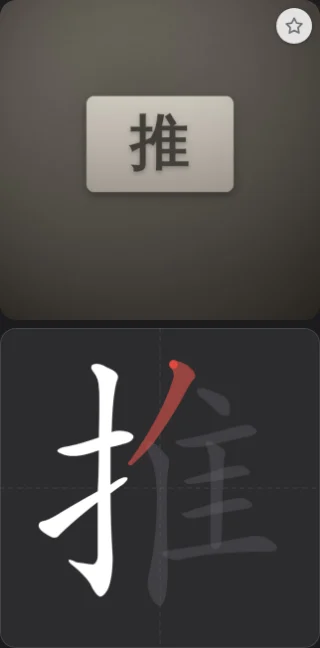
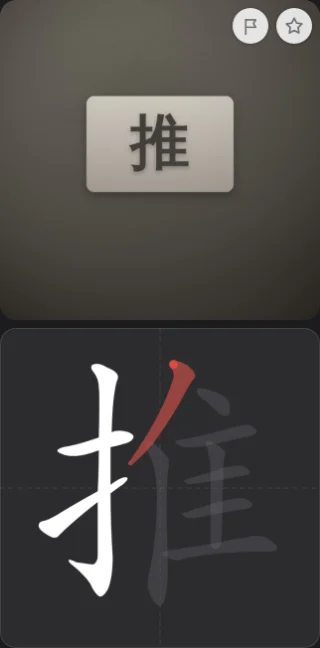
v659: the flag on the Learn photo stays after unflagging (#735)
* v659: the flag on the Learn photo stays after unflagging

Claude-Session: https://claude.ai/code/session_011ddJhScudZucfvFN8XF8dU

* docs: the zoom out at 车 is the level-3 rule (v617), recorded

Claude-Session: https://claude.ai/code/session_011ddJhScudZucfvFN8XF8dU

---------

Changed region(s): [[0.7188, 0.0, 0.8438, 0.0926]]

diff --git a/app.js b/app.js
@@ -8,7 +8,7 @@
 const NEW_PER_SESSION = 8;
 const CJK = /[\u4e00-\u9fff]/;
 const pySpaced=t=>{ const out=[]; for(const x of pinyinPro.pinyin(t,{type:"array",toneType:"symbol"})){ const prev=out[out.length-1]; if(prev!==undefined&&/^[\d.]+[a-zA-Z%]*$/.test(prev)&&/^[\da-zA-Z%.]$/.test(x)&&!(/[a-zA-Z%]$/.test(prev)&&/[\d.]/.test(x))) out[out.length-1]=prev+x; else out.push(x); } return out.join(" "); }; /* syllables with tone marks, space-separated; a number stays one token (30, not 3 0), with the unit letters the library hands out one by one (380ml, not 380 m l — v323) */
-const APP_V=658; /* must equal the PWA vN label in index.html — the boot check repairs a shell whose files are of different versions */
+const APP_V=659; /* must equal the PWA vN label in index.html — the boot check repairs a shell whose files are of different versions */
 let PICKING=0; const PICK_MAX=10*60000, picking=()=>PICKING>0&&Date.now()-PICKING<PICK_MAX; /* a photo is being taken or picked (v316): from the tap on Take photo or From album until the input's change or cancel, at most ten minutes — no update reload meanwhile, see reloadSoon */
 const glyphs = s => [...String(s)].filter(ch => CJK.test(ch)).length;
 const headFont = s => { const n = glyphs(s); return n<=1?150:n===2?104:n===3?74:n<=8?58:n<=12?44:34; };
@@ -3832,7 +3832,7 @@ function renderStudy(main){
      v584's DESC_ROW reserve go with it, and the pad has the 30 px back. */
   main.innerHTML=wxNoteHTML()+(S.single?`<div class="topline"><button class="del" id="back-cards">${t("← Cards")}</button><span class="badge">${t("Testing from the list")}</span></div>`:"")+`<div class="card study${rep?" rep":""}${cueBigCls()}">
     <div class="cue">
-    <div class="zone1 front${d.flag?" flagged":""}" id="reveal">${picHTML}${tradMark(d)}${inPage(d)?"":`<button class="picstar${d.star?" on":""}" id="picstar" aria-label="${esc(t("Star"))}" aria-pressed="${d.star?"true":"false"}">${starIcon}</button>`}${d.flag||d.unchecked?`<button class="picflag${d.flag?" on":" new"}" id="picflag" aria-label="${d.flag?t("⚑ Clear flag"):t("⚑ Flag for review")}" aria-pressed="${d.flag?"true":"false"}" title="${d.flag?"":esc(t("Not yet checked"))}">${flagIcon}</button>`:""}</div>
+    <div class="zone1 front${d.flag?" flagged":""}" id="reveal">${picHTML}${tradMark(d)}${inPage(d)?"":`<button class="picstar${d.star?" on":""}" id="picstar" aria-label="${esc(t("Star"))}" aria-pressed="${d.star?"true":"false"}">${starIcon}</button>`}${`<button class="picflag${d.flag?" on":d.unchecked?" new":""}" id="picflag" aria-label="${d.flag?t("⚑ Clear flag"):t("⚑ Flag for review")}" aria-pressed="${d.flag?"true":"false"}" title="${!d.flag&&d.unchecked?esc(t("Not yet checked")):""}">${flagIcon}</button>`}</div>
     <div class="txt" id="cuetxt">${tradMark(d)}${chrow}<div class="padline" id="padline"></div></div></div>
     <div class="padwrap"><canvas class="wpad" id="wpad" width="${DRAW_SIZE}" height="${DRAW_SIZE}"></canvas><div class="padacts" id="padacts"><button class="del" id="pad-undo" hidden>${t("pad:Undo")}</button><button class="del" id="pad-show" hidden>${t("Show me")}</button><button class="del" id="pad-skip" hidden>${t("Skip")}</button><button class="del" id="pad-done" hidden>${t("Done")}</button><button class="del" id="pad-clear" hidden>${t("Clear")}</button></div>${freePad?`<div class="hint" id="pad-note">${noTmpl?t("not in the stroke set — draw it and tap Done"):""}</div>`:""}</div>
     <div class="fold${ansOpen?" open":""}"><button class="foldbtn" id="fold" aria-expanded="${ansOpen?"true":"false"}"><span>${t("Whole card")}</span>${rep?`<span class="pill again">${t("Again")}</span>`:""}<span class="tail">${!rep&&list.length>1&&!S.single?/* v522: the count in the fold row; on a repeat pass the Again pill takes the slot */`<span class="pos">${esc(t("{0} of {1}",li+1,list.length))}</span>`:""}<i aria-hidden="true">⌄</i></span></button><div class="ans" id="ans"${ansOpen?"":" hidden"}>${back}</div></div>
@@ -3844,7 +3844,7 @@ function renderStudy(main){
   splitFit(card); /* v564/v580: the cue holds the picture or the whole text */
   /* the photo: a tap swaps the crop for the whole photo and back (v55); the flag in its corner is the review flag (§ 3.3) */
   const rv=$("#reveal"); if(rv) rv.onclick=e=>{ if(e.target.closest("#picflag,#picstar")) return; cueBig(card); }; /* v564: the tap swaps the two halves of the cue; the whole photo is the open card's (v55's swap is not on the study card any more). v580: the WHOLE upper zone takes it, not only a real picture — a card with no photo of its own draws its word there (v578) and must be able to swap back too */
-  { const pf=$("#picflag"); if(pf) pf.onclick=async e=>{ e.stopPropagation(); await setFlag(c,!d.flag); render(); }; } /* v515: hollow ⚐ = not yet checked, a tap flags it; tint ⚑ = flagged, a tap clears; nothing once checked and clean — such a card is flagged through Edit's checkbox (the block's Flag button went at v658) */
+  { const pf=$("#picflag"); if(pf) pf.onclick=async e=>{ e.stopPropagation(); await setFlag(c,!d.flag); render(); }; } /* v515: hollow ⚐ = not yet checked, a tap flags it; tint ⚑ = flagged, a tap clears; v658 (H: "Flag disappears after unflagging."): a checked, clean card shows it too, in the star's quiet grey, so it can be flagged again — it had been drawn only while flagged or unchecked */
   $("#fold").onclick=()=>{ S.ansOpen=!S.ansOpen; render(); if(S.ansOpen) revealBlock("#ans"); };
   { const ps=$("#picstar"); if(ps) ps.onclick=async e=>{ e.stopPropagation(); await setStar(c,!d.star); render(); }; } /* v658: the star on the photo, as on a Cards tile */
   const ed=$("#edit-card"); if(ed) ed.onclick=()=>{ S.editing=c; S.editFrom="study"; S.fullPic=false; render(); window.scrollTo({top:0}); }; /* v654: grades nothing; the pad keeps its strokes unless the text changes */

diff --git a/styles.css b/styles.css
@@ -737,7 +737,7 @@ body.noscroll{overflow:hidden}
 .picflag{display:grid;place-items:center} .picflag svg{width:21px;height:21px;fill:none;stroke:currentColor;stroke-width:1.8;stroke-linejoin:round;stroke-linecap:round} .picflag.on svg{fill:currentColor} .picflag.on{color:var(--tint)}
 .picstar{position:absolute;right:8px;top:8px;z-index:3;width:36px;height:36px;border:none;border-radius:999px;background:rgba(255,255,255,.85);color:var(--label3);padding:0;display:grid;place-items:center;cursor:pointer;box-shadow:0 1px 3px rgba(0,0,0,.25)} .picstar::before{content:"";position:absolute;inset:-4px} .picstar svg{width:22px;height:22px;fill:none;stroke:currentColor;stroke-width:1.8;stroke-linejoin:round} .picstar.on{color:var(--tint)} .picstar.on svg{fill:currentColor} /* v658: the star on the Learn photo, the flag's twin — marks on the picture, as on a Cards tile */
 .zone1 .picstar~.picflag{right:52px} /* v658: the flag beside the star, not under it */
-.picflag.new{color:var(--label2)} /* v515: hollow ⚐ — not yet checked; a tap flags it. Nothing is drawn once the card is checked and clean */
+.picflag.new{color:var(--label2)} /* v515: hollow — not yet checked, a shade darker; a tap flags it. v658: a checked, clean card shows the flag too, in --label3 like the star */
 /* THE CHARACTERS ARE ONE ROW (v517, H: "Die Felder für Bild und Zeichenfläche dürfen sich nicht in der Größe verändern.
    Das müssen Konstanten sein."). Until v516 there was one row per photo line, so a three-line sign gave three rows, 196 px
    against a one-line card's 60, and the pad paid the difference. The rows are laid side by side now with the photo's own

diff --git a/sw.js b/sw.js
@@ -1,4 +1,4 @@
-const CACHE = "zt-v658";
+const CACHE = "zt-v659";
 /* OCR assets (./vendor/, ~23 MB: the reader's eleven files at ~15 MB plus the 7.3 MB stroke outlines of v517, which are fetched through the same path but deliberately kept out of OCR_FILES) live in their own cache that survives shell
    updates — otherwise every cache version bump would re-download all of
    Tesseract. Only bump this when vendor files change. */

diff --git a/index.html b/index.html
@@ -20,7 +20,7 @@
 <body>
 <div id="app">
   <header id="hdr">
-    <div class="brand"><span class="logo">识字</span><span class="ver">PWA v658</span></div>
+    <div class="brand"><span class="logo">识字</span><span class="ver">PWA v659</span></div>
     <div class="stats">
       <div id="stat-filter"></div>
       <span id="stat-deck" style="display:none"><b>Deck</b><span class="v">0</span></span>

diff --git a/CLAUDE.md b/CLAUDE.md
@@ -59,7 +59,7 @@ UI language: English (ten languages shipped). Learning content: Chinese + pinyin
   sends `max-age=600`). Files no phone fetches — `CLAUDE.md`, `docs/`, `supabase/`, `tools/` —
   need **no** bump; bumping costs every phone a shell re-download for nothing.
 
-## Current state (PWA v658, 2026-09-26)
+## Current state (PWA v659, 2026-09-26)
 **The app is called 识字 Shízì** (v608, H: "Return the name to shizi", then "识字 Shízì" over the full v600 name; v601–v607
 it was 街字 Jiēzì, and Zeichentrainer stays dropped). The title, manifest `name`/`short_name` (识字 Shízì / 识字), header
 logo, About, share text, `privacy.html`, the owner's dumps and every shared file (`shizi-YYYY-MM-DD.json.txt`,
@@ -73,7 +73,7 @@ the manifest, which can take a day.
 - **v620–v636** — a **multicard's regions snap onto their texts** at display (`snapRegion`, memory only), never on a frame over half the photo or shared with another text (v628). Texts fall back to the whole picture because the model's label boxes are a drawing and the reader names only some labels; a measuring grid (v629–v630) and faster Qwen models (v631–v633, not on H's Token Plan) were tried and removed — see the archive. **Owner tools → Zoom check** (Run, Share, Data, Paddle) shares the newest 24 cards and 8 multicards as one PDF with the full photos, reading records and AI replies (v627). Multicards zoom like cards (v634) and take **Add a text** (v635).
 - **v637–v638** — **PaddleOCR on the phone** (`pdRead`, `vendor/paddle/`, ~30 MB loaded once on first use; since v642 in a worker of its own, `pdWorkerMain` — on the page it froze the first multicard swipe of a session for 633 ms): on H's phone 93 of 103 multicard texts named at 1.8 s a photo. Since v638 it **places a multicard's labels**: at the split (`pdMatch`, one to one, before the old label search, which only adds places; since v643/v644 a text left over may take two lines stacked or side by side, and one the reader cannot find takes the AI's box once `aiBoxCal` has checked the AI's boxes against the reader's on that photo — 227 of 227 texts on H's 24 multicard photos) and when an older multicard is shown (`refineShot`: a text with the whole picture or a shared frame takes its line). Owner tools → Zoom check → **Paddle** measures it. **Owner tools → Re-read all** (v645) runs every photo of the deck through today's real pipeline into a report (`shizi-reread.txt`) and changes no card (`RRPH` placeholders in memory; `finishPending`/`failPending` hand off to `rrFinish`). **Owner tools → Check texts** (v650) asks the picture model, one call per photo, which characters of each card's text are not on its photo and flags those cards "Not on the photo: …" (H's rule: no text that is not visible; pre-v611 cards invented 早 of 早日退休 and 盒马鲜生). **Owner tools → Rebuild all** (v651) replaces every photo's cards with what today's reading makes, through the camera's own save (`rbOne`); history, star and tags follow by text or one-to-one; the old cards sit in `rb:<shot>` settings rows for **Undo** and for `rbRecover` after a kill — the boot's orphan-progress sweep spares them. On a multicard photo only the multicard and its texts are replaced (v652; v651 dropped the photo's own flashcards, and `rbRepair` put them back once). Since **v639** it is also **one more pass of every reading** (whole straightened frame, started beside the quick look, exempt from `lineFit`/`sizeFitOf`): on H's 17 card pictures, AI off, characters found 17 → 44 %. Since **v641** a **sure** Paddle reading (≤ 2 lines, ≥ 2 characters, every one ≥ `PD_SURE` 95 %, and Paddle's own raw detection sees ≤ 2 Chinese lines) is the reading: no close look, the card in seconds — and since **v646** the picture goes to the AI beside it (`SURECHK`/`sureCheck`): a different answer flags the card (H chose this over accepting the ~3 % wrong characters his Re-read of 521 photos found), and since **v652** the card **takes the AI's reading**, the reader's kept in the note and first among `alts` (the sure path is not worse than the others — 6 % flagged against 7–8 % — so the shortcut stays; the default changed). Since **v648** a sure reading whose picture already went out at the quick look (`picEarly`) is checked with that answer — before, it was checked by nothing (良品 read 一品). `pdAsPass` keeps a Latin stretch of up to five letters inside a Chinese line (D座, AI, 24H, SOHO B — v647), cuts fine print at the AI's third, drops strays and repeated lines (v646); the check compares characters and digits (`sureKey`, v647). Turning right-to-left signs round by the dictionary was measured and dropped (v647: 蜜雪冰城 scores higher backwards).
 - **v656–v657** — **Crop again saved early keeps its reading**: `finishPending` puts its card back after a concurrent `putCard` copy (v656, the Learn description race); a sure reading's picture check now reaches the form or, after Save, the card via `sureCheck` (`formCheck`); and an AI answer counts only for the text it was asked about — the form's check (`run.zh`) and its hand-over (`aiLate`) never write an older text over a newer one (v657).
-- **v654–v655** — **Edit on the Learn card** inside Whole card (H: "not too prominent"); back to the same card, the pad kept unless the characters changed. Since v655 a grey toolbar of drawn icons over labels (H chose B of three mock-ups), since v658 only **Edit** — the marks sit on the photo like a Cards tile's: the star in the top-right corner, the flag beside it (H: "Doppelt gemoppelt ist zu vermeiden", "Unlogisch", then chose "marks on the photo"); a clean card is flagged through Edit.
+- **v654–v655** — **Edit on the Learn card** inside Whole card (H: "not too prominent"); back to the same card, the pad kept unless the characters changed. Since v655 a grey toolbar of drawn icons over labels (H chose B of three mock-ups), since v658 only **Edit** — the marks sit on the photo like a Cards tile's: the star in the top-right corner, the flag beside it, both always drawn (H: "Doppelt gemoppelt ist zu vermeiden", "Unlogisch", then chose "marks on the photo"; v659: the flag had vanished after unflagging).
 - **v653** — the Learn zoom's place comes from **the phone's reader** (`pdCharBoxes`: the card's characters matched to its lines, each placed at its CTC position `at`; 222 of 301 characters sure on H's 35 Zoom-data cards against 48 for the ink search); the first touch never waits for it, and what it cannot place keeps the ink search below.
 - **v617–v619** — the Learn photo **zooms onto the character being written** (`autoZoom`); `charBoxes` searches the layout (v619: which ink lines carry the card's characters, horizontal or vertical, by pitch fit, a size prior and the card's own breaks) and cuts each line into exactly its characters (DP on least-ink cuts); judged on H's own photos: **v626**, on his full-size Zoom data, makes a line sure only when every character's ink is character-shaped (aspect 0.62–1.7, not solid) and their widths agree within 1.5×, and drops solid bands — 43 of 124 sure, all right by eye (was 58 with ~12 wrong: a tight zoom on the wrong spot is the worse failure); only while the pad shows the character (levels 1–2); Diagnostics logs every decision and **Owner tools → Zoom check** shares the boxes drawn on H's newest 24 photo cards.
 

diff --git a/docs/HISTORY.md b/docs/HISTORY.md
@@ -1,4 +1,4 @@
-# HISTORY.md — the full record of 识字 Shízì (识字 Zeichentrainer until v601, 街字 Jiēzì v601–v607), v1–v658
+# HISTORY.md — the full record of 识字 Shízì (识字 Zeichentrainer until v601, 街字 Jiēzì v601–v607), v1–v659
 
 This is **CLAUDE.md as it stood at v596**, archived verbatim on 2026-09-21 because it had
 grown to 1.55 MB (~400k tokens) and was loaded into every single turn — which is what made
@@ -38,6 +38,21 @@ UI language: English. Learning content: Chinese + pinyin + English meaning.
 - URL: `https://henglicam.github.io/zeichentrainer/`
 - Push to `main` → Pages rebuilds automatically (~1–2 min). `index.html` must stay in the repo root.
 - The site is **public** (free plan). User data lives exclusively on the device (IndexedDB), never in the repo; what the app sends on its own is **the text of every new card** (the AI review is on by default and works through the owner's relay without a key, v191/v193 — and when the reading is hard, a picture of the text, sometimes the whole photo, v173/v348/v393) and the daily anonymous usage row (v170); each can be switched off under More, and `privacy.html` is the authoritative list (corrected at v403 and v534 — this line said "the only thing the app sends on its own is the usage row" until v539, which was false for 348 versions).
+
+## Current state (PWA v659, 2026-09-26)
+- **The flag on the Learn photo stays after unflagging (v659, H: "Flag disappears after unflagging.").** v515 drew the corner flag
+  only while a card was flagged or not yet checked; a tap that cleared a flag also left the card checked, so the flag vanished and
+  the card could not be flagged again from Learn — tolerable while the toolbar had its own Flag, a dead end since v658 moved the
+  marks onto the photo. Now the flag is **always drawn**, like the star beside it: filled tint when flagged, a darker hollow
+  (`--label2`, title "Not yet checked") when unchecked, and the star's quiet `--label3` hollow when checked and clean. Checked in
+  the harness: flagged → tap → hollow grey, still there → tap → flagged again; an unchecked card keeps its darker hollow and title.
+  The guide's `front-{light,dark}` crop was regenerated (it now shows both marks; ratio unchanged), the others restored. No key.
+- **Field note, no change: the zoom going out at 车 of 减震单车 is v617's rule, not a fault (H: "automatisches pan zum nächsten
+  gezoomten character funktioniert immer noch nicht zuverlässig. Zum Beispiel beim 车" — "Zooms out" — the pad at 车 was empty,
+  no grey template).** 车 is on many of H's cards, so it is at level 3, where the photo stays whole by H's own choice at v617
+  ("zoom only while the pad itself shows the character" — at recall a big sharp character would make it copying). A replay of the
+  card cut from H's screenshot also showed the phone's reader reading 1 of 4 characters of this outlined font (震 | 减) and a 震 box
+  off the text; not acted on — a screenshot cut-out is not the photo, and H's Diagnostics after a failed card is the test.
 
 ## Current state (PWA v658, 2026-09-26)
 - **Marks on the photo, actions in the toolbar (v658, H: "Works on the phone. Aber jetzt hab ich 2 mal Flag: oben rechts und
